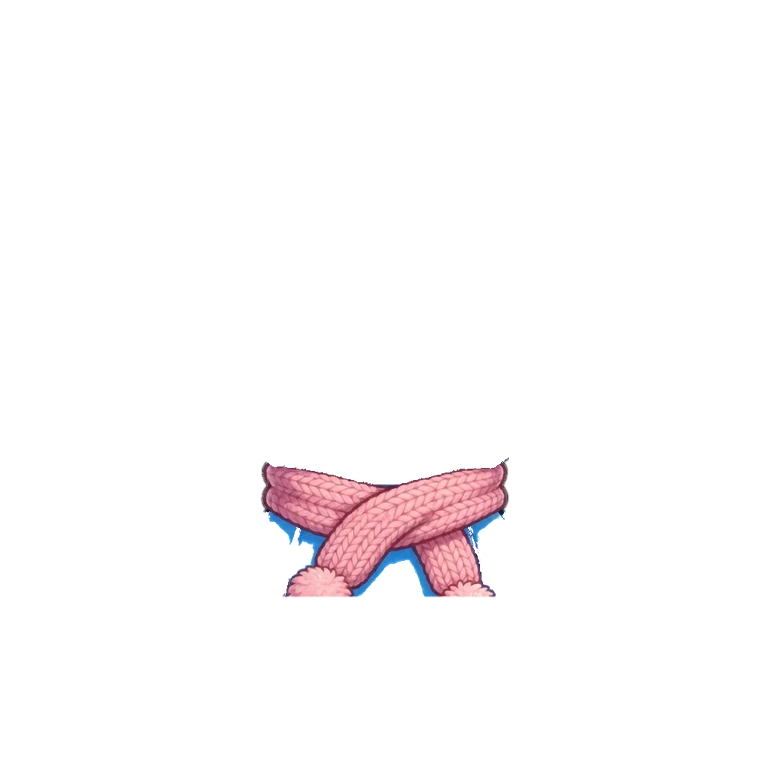
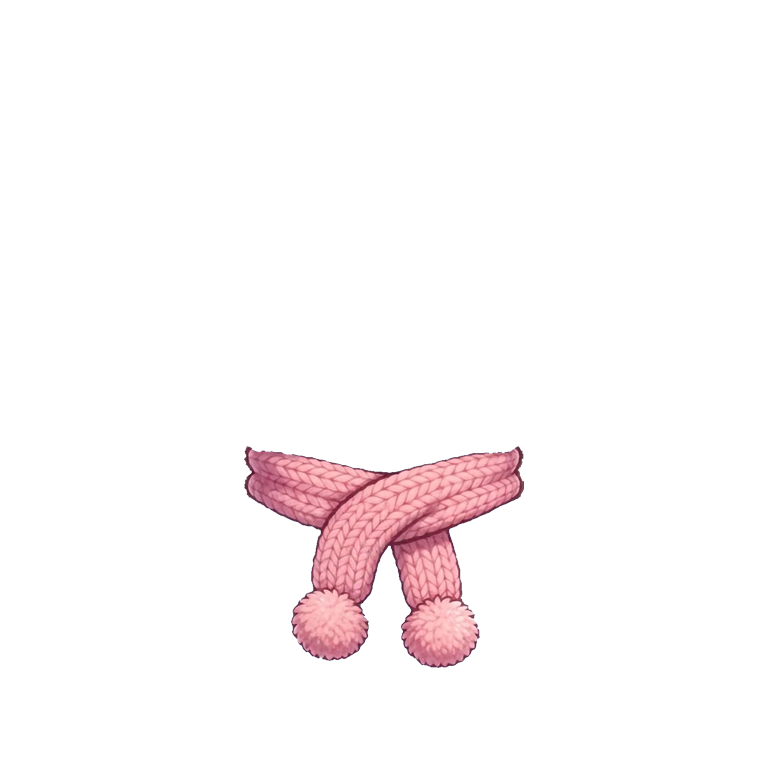
Pi: mở bán 2 khăn Muse vẽ riêng (vẽ thử đạt) — khăn caro đỏ nam, khăn len hồng quả bông nữ
Claude-Session: https://claude.ai/code/session_0163KSZYdzHDud2uG42gs7mp

Changed region(s): [[0.3125, 0.5625, 0.6875, 0.875]]

diff --git a/scripts/pi/build.py b/scripts/pi/build.py
@@ -96,7 +96,7 @@ for side in ("trai", "phai"):
 # 24/10 soát từng món: vệt lá cũ sót xa gốc lá (vùng rộng; KHÔNG áp chung vì vòng hoa có lá thật)
 # 24/10 tối (chủ dự án chốt): món Muse vẽ RIÊNG trên nền trong suốt → chỉ đặt đè lên, KHÔNG chạy bộ cắt lá / vụn (cắt nhầm mũ xanh lá)
 STANDALONE = {  # 25/10: mũ vẽ riêng đã duyệt ghép (mũ trùm đầu → ẩn lá)
-              "giangsinh-nam-dau01", "giangsinh-nam-dau02", "giangsinh-nam-dau03", "giangsinh-nam-dau04", "giangsinh-nu-dau01", "giangsinh-nu-dau04", "halloween-nam-dau02", "halloween-nam-dau05", "muadong-nam-dau01", "muadong-nam-dau02", "muadong-nam-dau03", "muadong-nam-dau05", "muadong-nu-dau01", "muadong-nu-dau03", "muadong-nu-dau04", "muahe-nam-dau02", "muahe-nam-dau03", "muahe-nu-dau01", "tet-nam-dau01", "tet-nam-dau02", "tet-nam-dau04", "tet-nu-dau01", "tet-nu-dau02", "tet-nu-dau03", "trungthu-nam-dau02", "trungthu-nam-dau04", "trungthu-nam-dau05", "trungthu-nu-dau05", "halloween-nam-dau01", "halloween-nu-dau01", "muahe-nu-dau04", "tet-nam-dau03", "trungthu-nam-dau01", "muahe-nam-dau01", "muahe-nu-dau02", "giangsinh-nam-dau05", "giangsinh-nu-dau02", "muahe-nam-dau04", "tet-nu-dau05", "trungthu-nam-dau03", "trungthu-nu-dau02"}
+              "giangsinh-nam-dau01", "giangsinh-nam-dau02", "giangsinh-nam-dau03", "giangsinh-nam-dau04", "giangsinh-nu-dau01", "giangsinh-nu-dau04", "halloween-nam-dau02", "halloween-nam-dau05", "muadong-nam-dau01", "muadong-nam-dau02", "muadong-nam-dau03", "muadong-nam-dau05", "muadong-nu-dau01", "muadong-nu-dau03", "muadong-nu-dau04", "muahe-nam-dau02", "muahe-nam-dau03", "muahe-nu-dau01", "tet-nam-dau01", "tet-nam-dau02", "tet-nam-dau04", "tet-nu-dau01", "tet-nu-dau02", "tet-nu-dau03", "trungthu-nam-dau02", "trungthu-nam-dau04", "trungthu-nam-dau05", "trungthu-nu-dau05", "halloween-nam-dau01", "halloween-nu-dau01", "muahe-nu-dau04", "tet-nam-dau03", "trungthu-nam-dau01", "muahe-nam-dau01", "muahe-nu-dau02", "giangsinh-nam-dau05", "giangsinh-nu-dau02", "muahe-nam-dau04", "tet-nu-dau05", "trungthu-nam-dau03", "trungthu-nu-dau02", "muadong-nam-pk01", "muadong-nu-pk01"}
 SHOE_SCALE = {"tet-nu-giay02": 0.66}
 LEAF_WIDE = {"giangsinh-nam-dau05", "trungthu-nam-dau03", "muahe-nam-dau05", "trungthu-nu-dau02"}
 ARM_HIDE = {"giangsinh-nam-pk07": "trai", "muadong-nam-pk08": "trai", "muadong-nu-pk08": "trai", "muahe-nam-pk05": "trai",
